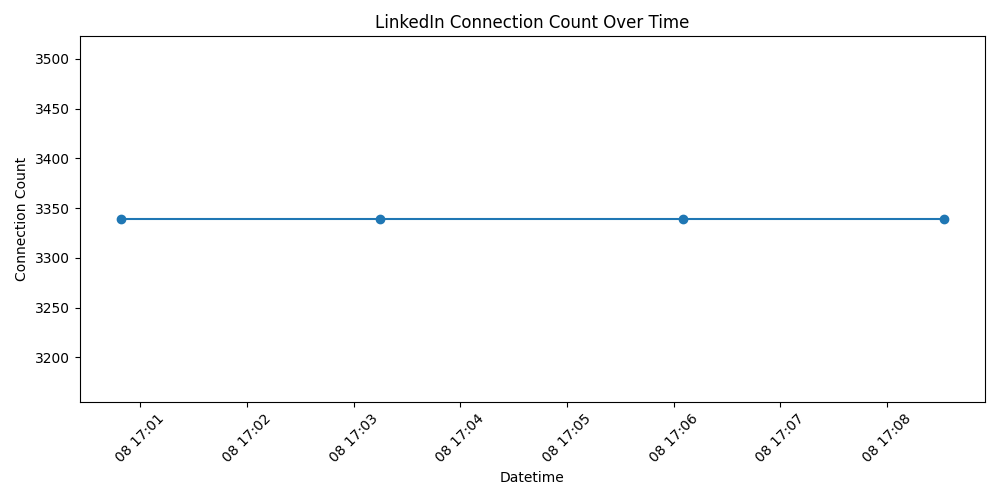
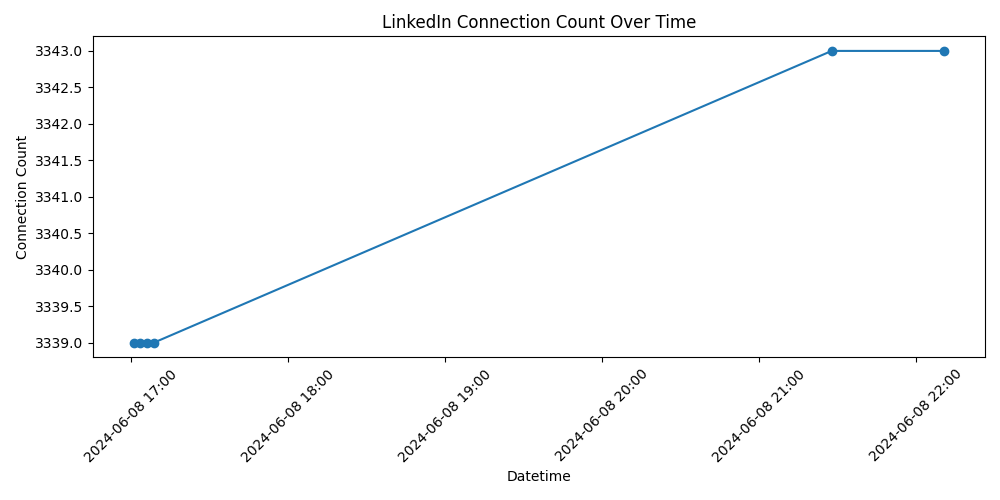
adjusted date formatting for plot

diff --git a/main.py b/main.py
@@ -11,6 +11,7 @@ from dotenv import load_dotenv
 import sqlite3
 import datetime
 import matplotlib.pyplot as plt
+import matplotlib.dates as mdates
 
 def login_to_linkedin(driver: webdriver.Chrome, username: str, password: str) -> None:
     """
@@ -59,7 +60,7 @@ def connect_to_db() -> tuple[sqlite3.Connection, sqlite3.Cursor]:
 
     return conn, c
 
-def clear_db():
+def clear_db() -> None:
     """
     Clears the connections table
     """
@@ -94,6 +95,10 @@ def plot_connection_data(snapshot: list[tuple[str, int]]) -> None:
         return
 
     datetimes = [datetime.datetime.strptime(row[0], "%Y-%m-%d %H:%M:%S") for row in snapshot]
+
+    print("Datetimes:", datetimes) # outputs: datetime.datetime(2024, 6, 8, 17, 0, 49)
+    print(f"Original Date Data: {snapshot[0][0]}") # outputs: 2024-06-08 17:00:49
+
     connection_counts = [row[1] for row in snapshot]
 
     # Print data points to verify
@@ -106,6 +111,8 @@ def plot_connection_data(snapshot: list[tuple[str, int]]) -> None:
     plt.ylabel("Connection Count")
     plt.title("LinkedIn Connection Count Over Time")
     plt.xticks(rotation=45)
+    plt.gca().xaxis.set_major_formatter(mdates.DateFormatter('%Y-%m-%d %H:%M'))  # Custom date format
+    plt.gca().xaxis.set_major_locator(mdates.AutoDateLocator())  # Automatically adjust the date ticks
     plt.tight_layout()  # Adjust layout to fit datetime labels
     
     # Save as .png to the current directory
@@ -120,9 +127,6 @@ def main():
     driver = webdriver.Chrome(ChromeDriverManager().install())
     connection_count = get_connection_count(driver, username, password)
     print(f"Connection count: {connection_count}")
-
-    # Get the HTML
-    html = driver.page_source 
 
     # Close the driver
     driver.close()
